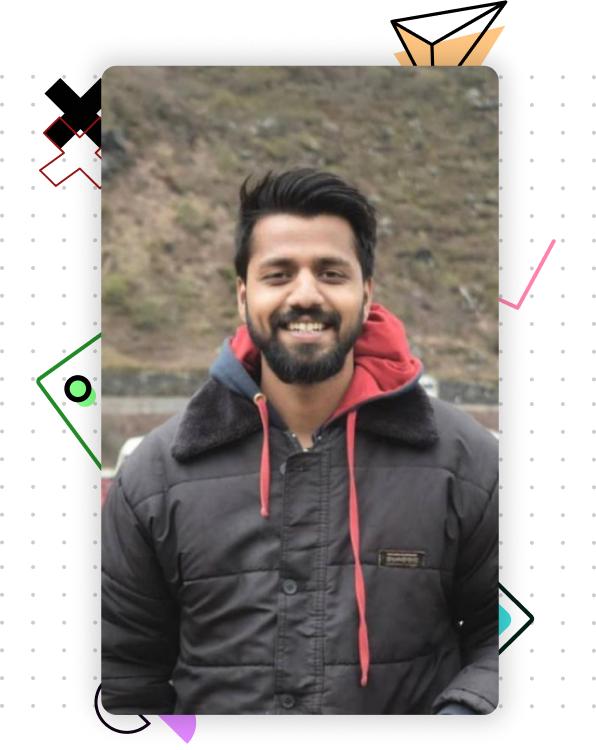
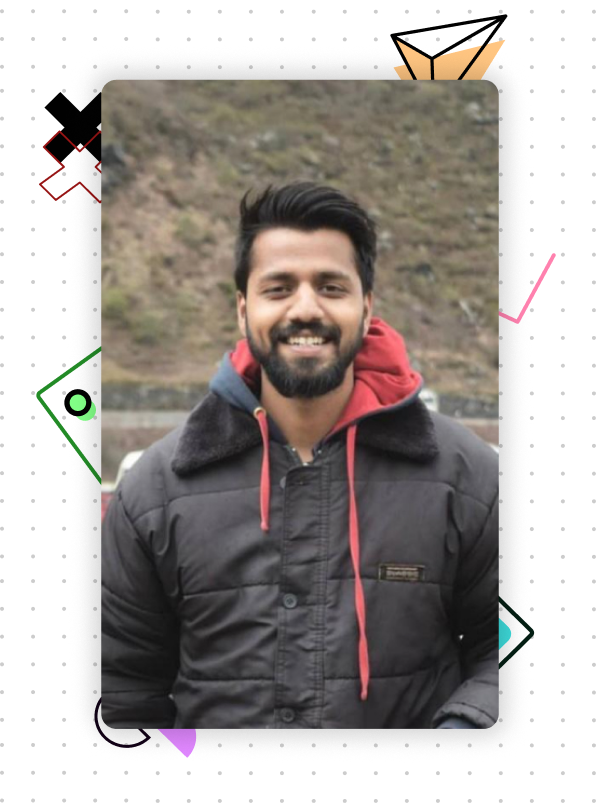
about me text added

diff --git a/aboutme_info/about-me.html b/aboutme_info/about-me.html
@@ -35,14 +35,9 @@
     <div class="first-container">
       <div class="text-container">
         <h1>Hello there, I'm <span>Nihal!</span></h1>
-        <p>(Random shit)I am a driven and dedicated individual with a passion for technology and innovation. My journey in the<b> tech industry </b> began as a young student, where I taught myself to code and build websites. Over the years, I have honed my skills and gained extensive experience in the field, and I am now working as a <b>software engineer</b> at a top tech company. 
-<br/>
-<br/>
-In my free time, I enjoy <b>exploring new technologies</b> and keeping up with the latest industry trends. I am always looking for new challenges and opportunities to grow and develop as a professional.
-<br/>
-<br/>
-Whether I am working on a new project or <b>collaborating with a team,</b> I am always striving to make a positive impact and push the boundaries of what is possible.
-</p>
+        <p>I am a creative and analytical professional with a diverse skill set that combines art and technology. Ever since my school days, I found myself constantly doodling and expressing my creativity through visual art. And during my studies in Electronics Engineering I discovered my ineterst in coding and tech which eventually led me to work for four years in the tech industry.</p>
+        <p>I strongly believe that my developed skillset in the above mentioned areas allows me to design solutions that are both functional and aesthetically pleasing.</p>
+      <p>If you have any questions or just feel like chatting, please don't hesitate to reach out to me. I would be happy to connect with you.</p>
       </div>
       <div class="image-container">
         <img src="./assets/me3.png" alt="Profile Image">

diff --git a/aboutme_info/style/about_me.css b/aboutme_info/style/about_me.css
@@ -43,20 +43,20 @@
       }
        header img {
         margin: 0 0 0 80px;
-        padding-top: 25px;
+        padding-top: 17px;
         height: 35px;
         width: 25px;
       }
       .first-container {
         display: flex;
-        justify-content: space-between;
+        justify-content: space-evenly;
         width: 80%;
         margin: 0 10%;
         flex-direction: row-reverse;
         margin-top: 120px;
       }
       .text-container {
-        width: 60%;
+        width: 50%;
         padding: 0px;
         text-align: left;
       }
@@ -229,7 +229,7 @@
       }
        header img {
         margin: 0 0 0 60px;
-        padding-top: 20px;
+        padding-top: 17px;
         height: 35px;
         width: 25px;
         position: relative;
